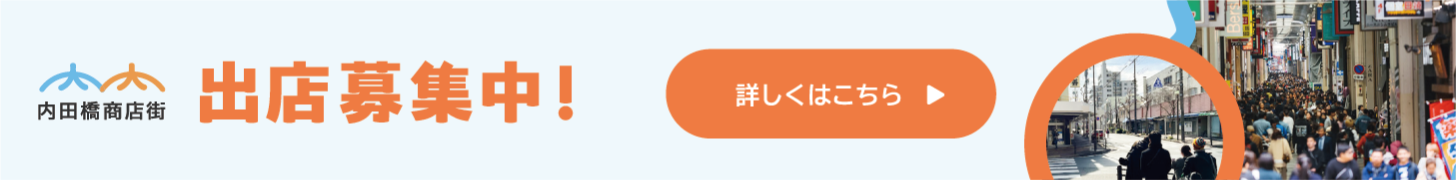
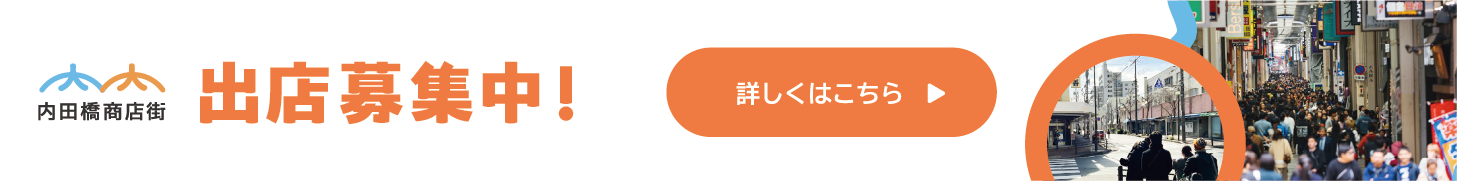
shimizu

diff --git a/css/style.min.css b/css/style.min.css
@@ -1,2 +1,2 @@
-@import"./header.css";@import"./footer.css";html,body{color:#5d4a3a;font-family:"UDPGothic",sans-serif;font-size:16px;letter-spacing:.05em;line-height:1.75;background-color:#fcf9ed;position:relative;width:100%;overflow-x:hidden}h1,h2,h3,h4,h5,h6{color:#5d4a3a;font-weight:400;word-break:break-all}h1{font-size:3rem;font-style:normal;font-weight:700;line-height:3rem}h2{font-size:2rem;line-height:3rem}h3{font-size:1.5rem}h4{font-size:1.25rem}a{text-decoration:none}pre{font-size:inherit}table{max-width:100%}th,td{padding:.5em}ol,ul{padding-left:2em}iframe{max-width:100%}input,textarea,button{font-size:inherit;line-height:""}code{font-size:inherit;word-break:break-all}img{max-width:100%}main{padding-top:10rem}button{background:none;border:none;padding:0;margin:0;font:inherit;color:inherit;cursor:pointer;outline:none}.modal{display:none;position:fixed;z-index:5;left:0;top:0;width:100%;height:100%;overflow:auto;opacity:0;transition:opacity .5s ease-in-out;background-color:#ff7f3e}.modal.show{display:block;opacity:1}.modal__content{padding-top:10.62rem;width:100vw;height:100vh;text-align:center}.modal__close{float:right;font-size:28px;font-weight:bold;cursor:pointer}.modal__link{display:block;color:#fff;font-size:1.25rem;font-style:normal;font-weight:700;line-height:2.5rem;margin-bottom:2.5rem;font-family:"Zen Maru Gothic",sans-serif}.modal__link i{font-size:3rem}.button{background-color:#ff7f3e}.shape--blue{position:absolute;right:5rem;top:5rem;opacity:.4}.shape--orange{position:absolute;right:-7rem;top:-10rem;opacity:.5}@media screen and (min-width: 1000px){.shape--blue{position:absolute;right:13rem;top:5rem;opacity:.4}.shape--orange{position:absolute;right:1rem;top:-10rem;opacity:.5}}.firstView{position:relative}.firstView__content{display:block;margin-bottom:3.69rem;margin-left:auto;margin-right:auto}.firstView__content--subtext{display:none;white-space:nowrap}.firstView__content--image{height:60vh;border-radius:0rem 12rem 1.5rem 0rem;background:url(../images/makiwaradammy.png) #d3d3d3 50%/cover no-repeat;width:75%;margin-bottom:3.8rem}.firstView__content--text{margin-left:auto;margin-right:auto}.firstView__content--text img{width:100%}.firstView__content--text .verticalCatch{display:none}.firstView__content--text .horizontalCatch{display:block;font-size:1.25rem;font-weight:700;margin-bottom:1.5rem;width:80%;margin-left:auto;margin-right:auto}@media screen and (min-width: 1000px){.firstView__content{display:flex;justify-content:space-between}.firstView__content--image{height:800px;border-radius:0rem 18.96875rem 1.5rem 0rem;background:url(../images/makiwaradammy.png) #d3d3d3 50%/cover no-repeat;width:79%;margin-bottom:0}.firstView__content--subtext{color:rgba(255,127,62,.5);font-family:"Zen Maru Gothic",sans-serif;font-weight:500;display:block}.firstView__content--text-group{padding-left:4%;padding-right:7%;margin-top:5rem}.firstView__content--text{width:100%;background-color:none}.firstView__content--text .verticalCatch{display:block;margin-bottom:4rem;width:100%}.firstView__content--text .horizontalCatch{display:none}.firstView__content--text--title{font-size:2.5rem;font-weight:700;margin-bottom:1.5rem}.firstView__content--text--detail{font-size:1.25rem;font-weight:400;line-height:1.5rem}}.sub-head{margin-bottom:1rem}@media screen and (min-width: 1000px){.sub-head{display:flex;align-items:center;margin-bottom:2rem}}.sub-head__text{display:inline-block;white-space:nowrap;font-weight:500;font-family:"Zen Maru Gothic"}.sub-head hr{height:2px;width:100%;border:none;display:inline-block;border-top:dashed 2px #ff7f3e}@media screen and (min-width: 1000px){.sub-head hr{margin-left:1rem}}.main-section{margin-left:auto;margin-right:auto;width:80%;max-width:1280px;padding:3rem 0}@media screen and (min-width: 1000px){.main-section{padding:6rem 0}}.topInfo{position:relative;background-color:#fff;padding:1.5rem;border-radius:1.25rem 0rem 0rem 1.25rem;display:flex;flex-direction:column;-moz-column-gap:5rem;column-gap:5rem;row-gap:1.75rem;color:#5d4a3a;width:83%;margin-left:auto;margin-right:auto;margin-bottom:3.62rem}.topInfo::before{content:"もうすぐ開催";position:absolute;top:-1.4rem;left:2.38rem;width:-webkit-fit-content;width:-moz-fit-content;width:fit-content;background-color:#ff7f3e;border-radius:6.25rem;color:#fff;padding:.25rem 1rem}.topInfo__day{font-family:"BIZ UDPGothic"}.topInfo__day--year{font-size:1.25rem;font-style:normal;font-weight:700;line-height:1.25rem;margin-bottom:.5rem}.topInfo__day--month{font-size:2.5rem;font-style:normal;font-weight:700;line-height:2.5rem}.topInfo__day--month .small{font-size:1.25rem;font-style:normal;font-weight:700;line-height:2.5rem}.topInfo__title{font-family:"BIZ UDPGothic"}.topInfo__title--text{font-size:1.25rem;font-style:normal;font-weight:700;line-height:2.125rem;padding-right:3rem}.topInfo__title--detail{font-size:1rem;font-style:normal;font-weight:400;line-height:1.3rem}@media screen and (min-width: 1000px){.topInfo{position:absolute;bottom:10vh;right:0;padding:1.5rem;border-radius:1.25rem 0rem 0rem 1.25rem;display:flex;flex-direction:row;width:auto}.topInfo::before{content:"もうすぐ開催";position:absolute;top:-1.4rem;left:2.38rem;width:-webkit-fit-content;width:-moz-fit-content;width:fit-content;background-color:#ff7f3e;border-radius:6.25rem;color:#fff;padding:.25rem 1rem}.topInfo *{width:-webkit-fit-content;width:-moz-fit-content;width:fit-content}.topInfo__day{font-family:"BIZ UDPGothic"}.topInfo__day--year{font-size:1.25rem;font-style:normal;font-weight:700;line-height:1.25rem;margin-bottom:.5rem}.topInfo__day--month{font-size:2.5rem;font-style:normal;font-weight:700;line-height:2.5rem}.topInfo__day--month .small{font-size:1.25rem;font-style:normal;font-weight:700;line-height:2.5rem}.topInfo__title{font-family:"BIZ UDPGothic"}.topInfo__title--text{font-size:1.25rem;font-style:normal;font-weight:700;line-height:2.125rem;padding-right:3rem}.topInfo__title--detail{font-size:1rem;font-style:normal;font-weight:400;line-height:1.3rem}}.sub-head{margin-bottom:2.5rem}@media screen and (min-width: 1000px){.sub-head{display:flex;align-items:center;margin-bottom:3rem}}.sub-head__text{display:inline-block;white-space:nowrap;font-weight:500;font-family:"Zen Maru Gothic"}.sub-head hr{height:2px;width:100%;border:none;display:inline-block;border-top:dashed 2px #ff7f3e}@media screen and (min-width: 1000px){.sub-head hr{margin-left:1rem}}.opening{margin-left:auto;margin-right:auto;text-align:center;margin-bottom:3rem;margin-top:3rem}.opening__link{display:inline-block}.opening__link-pc{display:none}.opening__link-sp{display:inline-block;border:rgba(93,74,58,.2) solid 1px;width:80%}@media screen and (min-width: 1000px){.opening__link-pc{display:inline-block;border:rgba(93,74,58,.2) solid 1px;width:50%}.opening__link-sp{display:none}}.opening__parts{border-radius:1.5rem;background-color:#ff7f3e;padding:3.5rem 2rem;margin-left:auto;margin-right:auto;width:83%;margin-bottom:3.62rem}.opening__parts--title{text-align:center;color:#fff;margin-bottom:1.5rem;font-family:"Zen Maru Gothic";font-weight:500;font-size:1.8rem}.opening__parts--text{align-self:stretch;font-family:"BIZ UDPGothic";font-size:1rem;font-style:normal;font-weight:400;line-height:1.8rem;color:#fff;margin-bottom:2.5rem}.opening__parts--text span{display:inline}.opening__parts--button{background-color:#fff;width:-webkit-fit-content;width:-moz-fit-content;width:fit-content;border-radius:6.25rem;padding:1rem 2.5rem;margin-left:auto;margin-right:auto;color:#ff7f3e}.opening__parts--button---text{font-family:"BIZ UDPGothic";font-size:1rem;font-style:normal;font-weight:700;line-height:2rem}.opening__parts--button i{margin-left:.5rem}@media screen and (min-width: 1000px){.opening{margin-top:7rem;margin-bottom:7rem}.opening__parts{padding:3.5rem 0;width:66%;margin-left:auto;margin-right:auto}.opening__parts--title{text-align:center;color:#fff;font-size:2.25rem;font-style:normal;font-weight:500;line-height:2rem;font-family:"Zen Maru Gothic"}.opening__parts--text{width:34rem;text-align:center;font-family:"BIZ UDPGothic";font-size:1rem;font-style:normal;font-weight:700;line-height:1.8rem;margin-left:auto;margin-right:auto}.opening__parts--text span{display:inline}}.section__title{text-align:center;font-size:2rem;font-weight:700;margin-bottom:3.69rem;margin-inline:auto;width:-webkit-fit-content;width:-moz-fit-content;width:fit-content;position:relative;font-family:"Zen Maru Gothic",sans-serif}.section__title::before{display:block;margin-inline:auto;content:"";top:-3rem;left:0%;width:100%;height:10px;z-index:1;margin-top:1rem;font-size:15px;color:#ff7f3e;position:absolute;font-family:"BIZ UDPGothic"}@media screen and (min-width: 1000px){.section__title{text-align:center;font-size:2rem;font-weight:700;margin-bottom:3.69rem;margin-inline:auto;width:-webkit-fit-content;width:-moz-fit-content;width:fit-content;position:relative}.section__title::before{display:block;margin-inline:auto;content:"";top:-3rem;left:0%;width:100%;height:10px;z-index:1;margin-top:1rem;font-size:15px;color:#ff7f3e;position:absolute;font-family:"BIZ UDPGothic"}}.event{background-color:#fff;padding-top:6.5rem;padding-bottom:6.5rem;border-radius:2.5rem 2.5rem 0rem 0rem}.event__title{font-family:"Zen Maru Gothic";font-size:2rem;font-style:normal;font-weight:700;line-height:2.5rem;text-align:center;margin-bottom:3rem}.event__title::before{display:block;margin-inline:auto;content:"Event";width:100%;margin-top:1rem;font-size:15px;color:#ff7f3e}.event__image--box{margin-bottom:2.5rem}.event__image{margin-bottom:.5rem}.event__name{text-align:right;font-size:.9375rem}.event__detail{margin-bottom:2.5rem;width:83%;margin-left:auto;margin-right:auto;color:#5d4a3a}.event__detail--copy{font-family:"Zen Maru Gothic";font-size:2rem;font-style:normal;font-weight:500;line-height:2.4rem;color:#5d4a3a;margin-bottom:1.5rem}.event__detail--text{font-family:"BIZ UDPGothic";font-size:1rem;font-style:normal;font-weight:700;line-height:1.8rem}.event__parts--button{width:-webkit-fit-content;width:-moz-fit-content;width:fit-content;border-radius:6.25rem;padding:1rem 2.5rem;margin-left:auto;margin-right:auto;color:#fff}.event__parts--button---text{font-family:"BIZ UDPGothic";font-size:1rem;font-style:normal;font-weight:700;line-height:2rem}.event__parts--button i{margin-left:.5rem}.event__info{padding:1px;border:1px solid #ff7f3e;width:-webkit-fit-content;width:-moz-fit-content;width:fit-content;margin-left:auto;margin-right:auto}.event__info--title{text-align:center}.event__info--content{text-align:center}@media screen and (min-width: 1000px){.event__content{display:flex;justify-content:space-between;-moz-column-gap:6.5rem;column-gap:6.5rem;align-items:center}.event__image--box{width:50%;border-radius:0rem 1rem;padding:0}.event__image--box img{border-radius:0rem 1rem 1rem 0}.event__name{font-family:"BIZ UDPGothic";font-size:1.25rem;font-style:normal;font-weight:700;line-height:2.5rem}.event__expl{padding-right:6.5rem;text-align:left;width:40%}.event__detail{width:100%}.event__parts--button{margin-left:0}}.storeInfo{background-color:#fff;padding-top:6.5rem;padding-bottom:6.5rem}.storeInfo__title{font-family:"Zen Maru Gothic";font-size:2rem;font-style:normal;font-weight:700;line-height:2.5rem}.storeInfo__title::before{display:block;margin-inline:auto;content:"Shop";width:100%;margin-top:1rem;font-size:15px;color:#ff7f3e}.storeInfo__text{width:83%;margin-left:auto;margin-right:auto;color:#5d4a3a;font-size:1rem;font-style:normal;font-weight:700;line-height:1.8rem;margin-top:2rem;margin-bottom:2rem}.storeInfo ul{list-style:none}@-webkit-keyframes infinity-scroll-left{from{transform:translateX(0)}to{transform:translateX(-100%)}}@keyframes infinity-scroll-left{from{transform:translateX(0)}to{transform:translateX(-100%)}}.storeInfo .scroll-infinity__wrap{display:flex;overflow:hidden}.storeInfo .scroll-infinity__list{display:flex;list-style:none;padding:0}.storeInfo .scroll-infinity__list--left{-webkit-animation:infinity-scroll-left 80s infinite linear .5s both;animation:infinity-scroll-left 80s infinite linear .5s both}.storeInfo .scroll-infinity__item{width:66.6666666667vw;margin-right:1.5rem}.storeInfo .scroll-infinity__item>img{width:100%;border-radius:1.25rem}@-webkit-keyframes infinity-scroll-right{from{transform:translateX(-100%)}to{transform:translateX(0)}}@keyframes infinity-scroll-right{from{transform:translateX(-100%)}to{transform:translateX(0)}}.storeInfo .scroll-infinity__wrap{display:flex;overflow:hidden}.storeInfo .scroll-infinity__list{display:flex;list-style:none;padding:0}.storeInfo .scroll-infinity__list--right{-webkit-animation:infinity-scroll-right 80s infinite linear .5s both;animation:infinity-scroll-right 80s infinite linear .5s both}.storeInfo .scroll-infinity__item{width:66.6666666667vw;margin-right:1.5rem}.storeInfo .scroll-infinity__item>img{width:100%;border-radius:1.25rem}@media screen and (min-width: 1000px){.storeInfo .imageScroll{margin-bottom:3.75rem}.storeInfo__text{text-align:center;font-family:"BIZ UDPGothic";font-size:1rem;font-style:normal;font-weight:700;line-height:1.8rem;margin-bottom:3.75rem}.storeInfo__text span{display:block}.storeInfo .button{margin-left:auto;margin-right:auto}.storeInfo .scroll-infinity__item{width:33.3333333333vw;margin-right:4rem;max-width:22rem}.storeInfo .scroll-infinity__item>img{width:100%;border-radius:1.25rem}}.bg-main{background-color:#fcf9ed}.latestInfo{padding-top:6.5rem;padding-bottom:6.5rem;font-family:"Zen Maru Gothic";text-align:center}.latestInfo__title{font-family:"Zen Maru Gothic";font-size:2rem;font-style:normal;font-weight:700;line-height:2.5rem;text-align:center;margin-bottom:3rem}.latestInfo__title::before{display:block;margin-inline:auto;content:"News";width:100%;font-size:15px;color:#ff7f3e}.latestInfo__instagram{display:flex;justify-content:space-between;margin-bottom:3.69rem;padding-left:0px !important;width:83%;margin-left:auto;margin-right:auto;list-style:none}.latestInfo__instagram li{width:30%;aspect-ratio:1/1;background-color:#212121;border-radius:.5rem}.latestInfo__instagram--post{width:7rem}.latestInfo__instagram--post img{width:100%;height:auto;-o-object-fit:cover;object-fit:cover;aspect-ratio:1/1}.latestInfo__text{font-family:"BIZ UDPGothic";width:83%;margin-left:auto;margin-right:auto;color:#5d4a3a;font-size:1rem;font-style:normal;font-weight:700;line-height:1.8rem;margin-bottom:2.5rem;text-align:center}.latestInfo__parts--button{width:-webkit-fit-content;width:-moz-fit-content;width:fit-content;border-radius:6.25rem;padding:1rem 2.5rem;margin-left:auto;margin-right:auto;color:#fff}.latestInfo__parts--button---text{font-family:"BIZ UDPGothic";font-size:1rem;font-style:normal;font-weight:700;line-height:2rem}.latestInfo__parts--button i{margin-left:.5rem}@media screen and (min-width: 1000px){.latestInfo{margin-bottom:6rem}.latestInfo__instagram{margin-bottom:3.75rem;width:58.6885245902%;margin-left:auto;margin-right:auto;max-width:716px}.latestInfo__instagram--post{width:13rem}}.about{padding-bottom:6.5rem}.about__imagebox{width:88%;margin-bottom:7.37rem}.about__imagebox img{border-radius:0rem 1.5rem 1.5rem 0rem}.about__title{font-family:"Zen Maru Gothic";font-size:2rem;font-style:normal;font-weight:700;line-height:2.5rem;text-align:center;margin-bottom:3rem}.about__title::before{display:block;margin-inline:auto;content:"About";width:100%;font-size:15px;color:#ff7f3e}.about__text{font-family:"BIZ UDPGothic";font-size:1rem;font-style:normal;font-weight:700;line-height:3.75rem;color:#5d4a3a;margin-bottom:2.5rem;width:83%;margin-left:auto;margin-right:auto;text-align:center}.about__parts--button{width:-webkit-fit-content;width:-moz-fit-content;width:fit-content;border-radius:6.25rem;padding:1rem 2.5rem;margin-left:auto;margin-right:auto;color:#fff;margin-bottom:3.12rem}.about__parts--button---text{font-family:"BIZ UDPGothic";font-size:1rem;font-style:normal;font-weight:700;line-height:2rem}.about__parts--button i{margin-left:.5rem}.about .image__sub01,.about .image__sub02{border-radius:.5rem}.about .image__sub01{border-radius:.5rem 0 0 .5rem}.about .image__area{display:flex;margin-bottom:3.69rem;flex-direction:row-reverse;-moz-column-gap:5%;column-gap:5%;align-items:flex-start;margin-bottom:6.5rem}.about .image__area img:nth-child(1){width:53%;aspect-ratio:3/2;-o-object-fit:contain;object-fit:contain}.about .image__area img:nth-child(2){margin-top:20%;width:30%;aspect-ratio:1/1.124;-o-object-fit:cover;object-fit:cover}.about .image__area :nth-child(1){border-radius:1.5rem}.about__opening{width:83%;background-color:#fff;padding:3rem 2rem;margin-left:auto;margin-right:auto;border-radius:1.5rem}.about__opening__title{text-align:center;font-family:"Zen Maru Gothic";font-size:2rem;font-style:normal;font-weight:700;line-height:2.5rem;margin-inline:auto;width:-webkit-fit-content;width:-moz-fit-content;width:fit-content;position:relative;color:#5d4a3a}.about__opening__title::before{content:"Opening a store";display:block;content:"About";margin-inline:auto;line-height:2.5rem;width:100%;font-size:15px;color:#ff7f3e}.about__opening__text{font-family:"BIZ UDPGothic";font-size:1rem;font-style:normal;font-weight:700;line-height:1.8rem;color:#5d4a3a;margin:2.5rem auto;text-align:center}.about__opening__parts--button{background-color:#ff7f3e;width:-webkit-fit-content;width:-moz-fit-content;width:fit-content;border-radius:6.25rem;padding:1rem 2.5rem;margin-left:auto;margin-right:auto;color:#fff}.about__opening__parts--button---text{font-family:"BIZ UDPGothic";font-size:1rem;font-style:normal;font-weight:700;line-height:2rem}.about__opening__parts--button i{margin-left:.5rem}@media screen and (min-width: 1000px){.about__imagebox{margin-bottom:6.5rem;width:70%}.about__imagebox img{border-radius:0;aspect-ratio:2/1;-o-object-fit:cover;object-fit:cover}.about__imagebox .image__area{display:flex;margin-bottom:3.69rem;flex-direction:row-reverse;-moz-column-gap:4.5rem;column-gap:4.5rem;align-items:flex-start;margin-bottom:12.75rem}.about__imagebox .image__area img:nth-child(1){width:53%;aspect-ratio:3/2;-o-object-fit:contain;object-fit:contain}.about__imagebox .image__area img:nth-child(2){margin-top:20%;width:30%;aspect-ratio:1/1.124;-o-object-fit:cover;object-fit:cover}.about__imagebox .image__area :nth-child(1){border-radius:1.5rem}}.access{padding-top:6.5rem;padding-bottom:3.5rem;background-color:#fff}.access__title{font-family:"Zen Maru Gothic";font-size:2rem;font-style:normal;font-weight:700;line-height:2.5rem;text-align:center;margin-bottom:3rem}.access__title::before{display:block;margin-inline:auto;content:"Shop";width:100%;font-size:15px;color:#ff7f3e}.access__map{width:85%;margin-left:auto;margin-right:auto;aspect-ratio:1/1;border:.2px solid #4e4e4e;border-radius:.5rem;margin-bottom:2.5rem}.access__map iframe{width:100%;height:100%;border-radius:.5rem;padding:auto}.access__link{display:block;color:#5d4a3a;width:85%;margin-left:auto;margin-right:auto;font-family:"BIZ UDPGothic";font-size:1rem;font-style:normal;font-weight:700;line-height:1.8rem;-webkit-text-decoration-line:underline;text-decoration-line:underline;margin-bottom:2.5rem}.access__route--guide{display:flex;margin-bottom:2.5rem;gap:1.5rem;width:85%;margin-left:auto;margin-right:auto}.access__route--guide:nth-child(2){margin-bottom:0;align-items:center}.access__route--guide__title{width:-webkit-fit-content;width:-moz-fit-content;width:fit-content;font-family:"BIZ UDPGothic";font-size:1rem;font-style:normal;font-weight:700;line-height:1.8rem;border-radius:1.5rem;padding:.25rem 1rem;color:#ff7f3e;height:-webkit-fit-content;height:-moz-fit-content;height:fit-content;text-align:center}.access__route--guide .dlwrap{width:73%}.access__route--guide__text{font-family:"BIZ UDPGothic";font-size:1rem;font-style:normal;font-weight:700;line-height:1.8rem;color:#5d4a3a}.access__route--guide__text.caution{color:#ff7f3e}@media screen and (min-width: 1000px){.access__wrapper{display:flex;width:87%;margin-left:auto;margin-right:auto;justify-content:space-between}.access__map{width:47%;aspect-ratio:3/2}.access__info{width:47%}.access__link{width:100%}.access__route--guide{width:100%}}.scroll-infinity{margin-bottom:0}@media screen and (min-width: 1000px){.scroll-infinity{margin-bottom:1rem}}
+@import"./header.css";@import"./footer.css";html,body{color:#5d4a3a;font-family:"UDPGothic",sans-serif;font-size:16px;letter-spacing:.05em;line-height:1.75;background-color:#fcf9ed;position:relative;width:100%;overflow-x:hidden}h1,h2,h3,h4,h5,h6{color:#5d4a3a;font-weight:400;word-break:break-all}h1{font-size:3rem;font-style:normal;font-weight:700;line-height:3rem}h2{font-size:2rem;line-height:3rem}h3{font-size:1.5rem}h4{font-size:1.25rem}a{text-decoration:none}pre{font-size:inherit}table{max-width:100%}th,td{padding:.5em}ol,ul{padding-left:2em}iframe{max-width:100%}input,textarea,button{font-size:inherit;line-height:""}code{font-size:inherit;word-break:break-all}img{max-width:100%}main{padding-top:10rem}button{background:none;border:none;padding:0;margin:0;font:inherit;color:inherit;cursor:pointer;outline:none}.modal{display:none;position:fixed;z-index:5;left:0;top:0;width:100%;height:100%;overflow:auto;opacity:0;transition:opacity .5s ease-in-out;background-color:#ff7f3e}.modal.show{display:block;opacity:1}.modal__content{padding-top:10.62rem;width:100vw;height:100vh;text-align:center}.modal__close{float:right;font-size:28px;font-weight:bold;cursor:pointer}.modal__link{display:block;color:#fff;font-size:1.25rem;font-style:normal;font-weight:700;line-height:2.5rem;margin-bottom:2.5rem;font-family:"Zen Maru Gothic",sans-serif}.modal__link i{font-size:3rem}.button{background-color:#ff7f3e}.shape--blue{position:absolute;right:5rem;top:5rem;opacity:.4}.shape--orange{position:absolute;right:-7rem;top:-10rem;opacity:.5}@media screen and (min-width: 1000px){.shape--blue{position:absolute;right:13rem;top:5rem;opacity:.4}.shape--orange{position:absolute;right:1rem;top:-10rem;opacity:.5}}.firstView{position:relative}.firstView__content{display:block;margin-bottom:3.69rem;margin-left:auto;margin-right:auto}.firstView__content--subtext{display:none;white-space:nowrap}.firstView__content--image{height:60vh;border-radius:0rem 12rem 1.5rem 0rem;background:url(../images/makiwaradammy.png) #d3d3d3 50%/cover no-repeat;width:75%;margin-bottom:3.8rem}.firstView__content--text{margin-left:auto;margin-right:auto}.firstView__content--text img{width:100%}.firstView__content--text .verticalCatch{display:none}.firstView__content--text .horizontalCatch{display:block;font-size:1.25rem;font-weight:700;margin-bottom:1.5rem;width:80%;margin-left:auto;margin-right:auto}@media screen and (min-width: 1000px){.firstView__content{display:flex;justify-content:space-between}.firstView__content--image{height:800px;border-radius:0rem 18.96875rem 1.5rem 0rem;background:url(../images/makiwaradammy.png) #d3d3d3 50%/cover no-repeat;width:79%;margin-bottom:0}.firstView__content--subtext{color:rgba(255,127,62,.5);font-family:"Zen Maru Gothic",sans-serif;font-weight:500;display:block}.firstView__content--text-group{padding-left:4%;padding-right:7%;margin-top:5rem}.firstView__content--text{width:100%;background-color:none}.firstView__content--text .verticalCatch{display:block;margin-bottom:4rem;width:100%}.firstView__content--text .horizontalCatch{display:none}.firstView__content--text--title{font-size:2.5rem;font-weight:700;margin-bottom:1.5rem}.firstView__content--text--detail{font-size:1.25rem;font-weight:400;line-height:1.5rem}}.sub-head{margin-bottom:1rem}@media screen and (min-width: 1000px){.sub-head{display:flex;align-items:center;margin-bottom:2rem}}.sub-head__text{display:inline-block;white-space:nowrap;font-weight:500;font-family:"Zen Maru Gothic"}.sub-head hr{height:2px;width:100%;border:none;display:inline-block;border-top:dashed 2px #ff7f3e}@media screen and (min-width: 1000px){.sub-head hr{margin-left:1rem}}.main-section{margin-left:auto;margin-right:auto;width:80%;max-width:1280px;padding:3rem 0}@media screen and (min-width: 1000px){.main-section{padding:6rem 0}}.topInfo{position:relative;background-color:#fff;padding:1.5rem;border-radius:1.25rem 0rem 0rem 1.25rem;display:flex;flex-direction:column;-moz-column-gap:5rem;column-gap:5rem;row-gap:1.75rem;color:#5d4a3a;width:83%;margin-left:auto;margin-right:auto;margin-bottom:3.62rem}.topInfo::before{content:"もうすぐ開催";position:absolute;top:-1.4rem;left:2.38rem;width:-webkit-fit-content;width:-moz-fit-content;width:fit-content;background-color:#ff7f3e;border-radius:6.25rem;color:#fff;padding:.25rem 1rem}.topInfo__day{font-family:"BIZ UDPGothic"}.topInfo__day--year{font-size:1.25rem;font-style:normal;font-weight:700;line-height:1.25rem;margin-bottom:.5rem}.topInfo__day--month{font-size:2.5rem;font-style:normal;font-weight:700;line-height:2.5rem}.topInfo__day--month .small{font-size:1.25rem;font-style:normal;font-weight:700;line-height:2.5rem}.topInfo__title{font-family:"BIZ UDPGothic"}.topInfo__title--text{font-size:1.25rem;font-style:normal;font-weight:700;line-height:2.125rem;padding-right:3rem}.topInfo__title--detail{font-size:1rem;font-style:normal;font-weight:400;line-height:1.3rem}@media screen and (min-width: 1000px){.topInfo{position:absolute;bottom:10vh;right:0;padding:1.5rem;border-radius:1.25rem 0rem 0rem 1.25rem;display:flex;flex-direction:row;width:auto}.topInfo::before{content:"もうすぐ開催";position:absolute;top:-1.4rem;left:2.38rem;width:-webkit-fit-content;width:-moz-fit-content;width:fit-content;background-color:#ff7f3e;border-radius:6.25rem;color:#fff;padding:.25rem 1rem}.topInfo *{width:-webkit-fit-content;width:-moz-fit-content;width:fit-content}.topInfo__day{font-family:"BIZ UDPGothic"}.topInfo__day--year{font-size:1.25rem;font-style:normal;font-weight:700;line-height:1.25rem;margin-bottom:.5rem}.topInfo__day--month{font-size:2.5rem;font-style:normal;font-weight:700;line-height:2.5rem}.topInfo__day--month .small{font-size:1.25rem;font-style:normal;font-weight:700;line-height:2.5rem}.topInfo__title{font-family:"BIZ UDPGothic"}.topInfo__title--text{font-size:1.25rem;font-style:normal;font-weight:700;line-height:2.125rem;padding-right:3rem}.topInfo__title--detail{font-size:1rem;font-style:normal;font-weight:400;line-height:1.3rem}}.sub-head{margin-bottom:2.5rem}@media screen and (min-width: 1000px){.sub-head{display:flex;align-items:center;margin-bottom:3rem}}.sub-head__text{display:inline-block;white-space:nowrap;font-weight:500;font-family:"Zen Maru Gothic"}.sub-head hr{height:2px;width:100%;border:none;display:inline-block;border-top:dashed 2px #ff7f3e}@media screen and (min-width: 1000px){.sub-head hr{margin-left:1rem}}.opening{margin-left:auto;margin-right:auto;text-align:center;margin-bottom:3rem;margin-top:3rem}.opening__banner{width:100%}.opening__link{display:inline-block}.opening__link-pc{display:none}.opening__link-sp{display:inline-block;border:rgba(93,74,58,.2) solid 1px;width:80%}@media screen and (min-width: 1000px){.opening__link-pc{display:inline-block;border:rgba(93,74,58,.2) solid 1px;width:50%}.opening__link-sp{display:none}}.opening__parts{border-radius:1.5rem;background-color:#ff7f3e;padding:3.5rem 2rem;margin-left:auto;margin-right:auto;width:83%;margin-bottom:3.62rem}.opening__parts--title{text-align:center;color:#fff;margin-bottom:1.5rem;font-family:"Zen Maru Gothic";font-weight:500;font-size:1.8rem}.opening__parts--text{align-self:stretch;font-family:"BIZ UDPGothic";font-size:1rem;font-style:normal;font-weight:400;line-height:1.8rem;color:#fff;margin-bottom:2.5rem}.opening__parts--text span{display:inline}.opening__parts--button{background-color:#fff;width:-webkit-fit-content;width:-moz-fit-content;width:fit-content;border-radius:6.25rem;padding:1rem 2.5rem;margin-left:auto;margin-right:auto;color:#ff7f3e}.opening__parts--button---text{font-family:"BIZ UDPGothic";font-size:1rem;font-style:normal;font-weight:700;line-height:2rem}.opening__parts--button i{margin-left:.5rem}@media screen and (min-width: 1000px){.opening{margin-top:7rem;margin-bottom:7rem}.opening__parts{padding:3.5rem 0;width:66%;margin-left:auto;margin-right:auto}.opening__parts--title{text-align:center;color:#fff;font-size:2.25rem;font-style:normal;font-weight:500;line-height:2rem;font-family:"Zen Maru Gothic"}.opening__parts--text{width:34rem;text-align:center;font-family:"BIZ UDPGothic";font-size:1rem;font-style:normal;font-weight:700;line-height:1.8rem;margin-left:auto;margin-right:auto}.opening__parts--text span{display:inline}}.section__title{text-align:center;font-size:2rem;font-weight:700;margin-bottom:3.69rem;margin-inline:auto;width:-webkit-fit-content;width:-moz-fit-content;width:fit-content;position:relative;font-family:"Zen Maru Gothic",sans-serif}.section__title::before{display:block;margin-inline:auto;content:"";top:-3rem;left:0%;width:100%;height:10px;z-index:1;margin-top:1rem;font-size:15px;color:#ff7f3e;position:absolute;font-family:"BIZ UDPGothic"}@media screen and (min-width: 1000px){.section__title{text-align:center;font-size:2rem;font-weight:700;margin-bottom:3.69rem;margin-inline:auto;width:-webkit-fit-content;width:-moz-fit-content;width:fit-content;position:relative}.section__title::before{display:block;margin-inline:auto;content:"";top:-3rem;left:0%;width:100%;height:10px;z-index:1;margin-top:1rem;font-size:15px;color:#ff7f3e;position:absolute;font-family:"BIZ UDPGothic"}}.event{background-color:#fff;padding-top:6.5rem;padding-bottom:6.5rem;border-radius:2.5rem 2.5rem 0rem 0rem}.event__title{font-family:"Zen Maru Gothic";font-size:2rem;font-style:normal;font-weight:700;line-height:2.5rem;text-align:center;margin-bottom:3rem}.event__title::before{display:block;margin-inline:auto;content:"Event";width:100%;margin-top:1rem;font-size:15px;color:#ff7f3e}.event__image--box{margin-bottom:2.5rem}.event__image{margin-bottom:.5rem}.event__name{text-align:right;font-size:.9375rem}.event__detail{margin-bottom:2.5rem;width:83%;margin-left:auto;margin-right:auto;color:#5d4a3a}.event__detail--copy{font-family:"Zen Maru Gothic";font-size:2rem;font-style:normal;font-weight:500;line-height:2.4rem;color:#5d4a3a;margin-bottom:1.5rem}.event__detail--text{font-family:"BIZ UDPGothic";font-size:1rem;font-style:normal;font-weight:700;line-height:1.8rem}.event__parts--button{width:-webkit-fit-content;width:-moz-fit-content;width:fit-content;border-radius:6.25rem;padding:1rem 2.5rem;margin-left:auto;margin-right:auto;color:#fff}.event__parts--button---text{font-family:"BIZ UDPGothic";font-size:1rem;font-style:normal;font-weight:700;line-height:2rem}.event__parts--button i{margin-left:.5rem}.event__info{padding:1px;border:1px solid #ff7f3e;width:-webkit-fit-content;width:-moz-fit-content;width:fit-content;margin-left:auto;margin-right:auto}.event__info--title{text-align:center}.event__info--content{text-align:center}@media screen and (min-width: 1000px){.event__content{display:flex;justify-content:space-between;-moz-column-gap:6.5rem;column-gap:6.5rem;align-items:center}.event__image--box{width:50%;border-radius:0rem 1rem;padding:0}.event__image--box img{border-radius:0rem 1rem 1rem 0}.event__name{font-family:"BIZ UDPGothic";font-size:1.25rem;font-style:normal;font-weight:700;line-height:2.5rem}.event__expl{padding-right:6.5rem;text-align:left;width:40%}.event__detail{width:100%}.event__parts--button{margin-left:0}}.storeInfo{background-color:#fff;padding-top:6.5rem;padding-bottom:6.5rem}.storeInfo__title{font-family:"Zen Maru Gothic";font-size:2rem;font-style:normal;font-weight:700;line-height:2.5rem}.storeInfo__title::before{display:block;margin-inline:auto;content:"Shop";width:100%;margin-top:1rem;font-size:15px;color:#ff7f3e}.storeInfo__text{width:83%;margin-left:auto;margin-right:auto;color:#5d4a3a;font-size:1rem;font-style:normal;font-weight:700;line-height:1.8rem;margin-top:2rem;margin-bottom:2rem}.storeInfo ul{list-style:none}@-webkit-keyframes infinity-scroll-left{from{transform:translateX(0)}to{transform:translateX(-100%)}}@keyframes infinity-scroll-left{from{transform:translateX(0)}to{transform:translateX(-100%)}}.storeInfo .scroll-infinity__wrap{display:flex;overflow:hidden}.storeInfo .scroll-infinity__list{display:flex;list-style:none;padding:0}.storeInfo .scroll-infinity__list--left{-webkit-animation:infinity-scroll-left 80s infinite linear .5s both;animation:infinity-scroll-left 80s infinite linear .5s both}.storeInfo .scroll-infinity__item{width:66.6666666667vw;margin-right:1.5rem}.storeInfo .scroll-infinity__item>img{width:100%;border-radius:1.25rem}@-webkit-keyframes infinity-scroll-right{from{transform:translateX(-100%)}to{transform:translateX(0)}}@keyframes infinity-scroll-right{from{transform:translateX(-100%)}to{transform:translateX(0)}}.storeInfo .scroll-infinity__wrap{display:flex;overflow:hidden}.storeInfo .scroll-infinity__list{display:flex;list-style:none;padding:0}.storeInfo .scroll-infinity__list--right{-webkit-animation:infinity-scroll-right 80s infinite linear .5s both;animation:infinity-scroll-right 80s infinite linear .5s both}.storeInfo .scroll-infinity__item{width:66.6666666667vw;margin-right:1.5rem}.storeInfo .scroll-infinity__item>img{width:100%;border-radius:1.25rem}@media screen and (min-width: 1000px){.storeInfo .imageScroll{margin-bottom:3.75rem}.storeInfo__text{text-align:center;font-family:"BIZ UDPGothic";font-size:1rem;font-style:normal;font-weight:700;line-height:1.8rem;margin-bottom:3.75rem}.storeInfo__text span{display:block}.storeInfo .button{margin-left:auto;margin-right:auto}.storeInfo .scroll-infinity__item{width:33.3333333333vw;margin-right:4rem;max-width:22rem}.storeInfo .scroll-infinity__item>img{width:100%;border-radius:1.25rem}}.bg-main{background-color:#fcf9ed}.latestInfo{padding-top:6.5rem;padding-bottom:6.5rem;font-family:"Zen Maru Gothic";text-align:center}.latestInfo__title{font-family:"Zen Maru Gothic";font-size:2rem;font-style:normal;font-weight:700;line-height:2.5rem;text-align:center;margin-bottom:3rem}.latestInfo__title::before{display:block;margin-inline:auto;content:"News";width:100%;font-size:15px;color:#ff7f3e}.latestInfo__instagram{display:flex;justify-content:space-between;margin-bottom:3.69rem;padding-left:0px !important;width:83%;margin-left:auto;margin-right:auto;list-style:none}.latestInfo__instagram li{width:30%;aspect-ratio:1/1;background-color:#212121;border-radius:.5rem}.latestInfo__instagram--post{width:7rem}.latestInfo__instagram--post img{width:100%;height:auto;-o-object-fit:cover;object-fit:cover;aspect-ratio:1/1}.latestInfo__text{font-family:"BIZ UDPGothic";width:83%;margin-left:auto;margin-right:auto;color:#5d4a3a;font-size:1rem;font-style:normal;font-weight:700;line-height:1.8rem;margin-bottom:2.5rem;text-align:center}.latestInfo__parts--button{width:-webkit-fit-content;width:-moz-fit-content;width:fit-content;border-radius:6.25rem;padding:1rem 2.5rem;margin-left:auto;margin-right:auto;color:#fff}.latestInfo__parts--button---text{font-family:"BIZ UDPGothic";font-size:1rem;font-style:normal;font-weight:700;line-height:2rem}.latestInfo__parts--button i{margin-left:.5rem}@media screen and (min-width: 1000px){.latestInfo{margin-bottom:6rem}.latestInfo__instagram{margin-bottom:3.75rem;width:58.6885245902%;margin-left:auto;margin-right:auto;max-width:716px}.latestInfo__instagram--post{width:13rem}}.about{padding-bottom:6.5rem}.about__imagebox{width:88%;margin-bottom:7.37rem}.about__imagebox img{border-radius:0rem 1.5rem 1.5rem 0rem}.about__title{font-family:"Zen Maru Gothic";font-size:2rem;font-style:normal;font-weight:700;line-height:2.5rem;text-align:center;margin-bottom:3rem}.about__title::before{display:block;margin-inline:auto;content:"About";width:100%;font-size:15px;color:#ff7f3e}.about__text{font-family:"BIZ UDPGothic";font-size:1rem;font-style:normal;font-weight:700;line-height:3.75rem;color:#5d4a3a;margin-bottom:2.5rem;width:83%;margin-left:auto;margin-right:auto;text-align:center}.about__parts--button{width:-webkit-fit-content;width:-moz-fit-content;width:fit-content;border-radius:6.25rem;padding:1rem 2.5rem;margin-left:auto;margin-right:auto;color:#fff;margin-bottom:3.12rem}.about__parts--button---text{font-family:"BIZ UDPGothic";font-size:1rem;font-style:normal;font-weight:700;line-height:2rem}.about__parts--button i{margin-left:.5rem}.about .image__sub01,.about .image__sub02{border-radius:.5rem}.about .image__sub01{border-radius:.5rem 0 0 .5rem}.about .image__area{display:flex;margin-bottom:3.69rem;flex-direction:row-reverse;-moz-column-gap:5%;column-gap:5%;align-items:flex-start;margin-bottom:6.5rem}.about .image__area img:nth-child(1){width:53%;aspect-ratio:3/2;-o-object-fit:contain;object-fit:contain}.about .image__area img:nth-child(2){margin-top:20%;width:30%;aspect-ratio:1/1.124;-o-object-fit:cover;object-fit:cover}.about .image__area :nth-child(1){border-radius:1.5rem}.about__opening{width:83%;background-color:#fff;padding:3rem 2rem;margin-left:auto;margin-right:auto;border-radius:1.5rem}.about__opening__title{text-align:center;font-family:"Zen Maru Gothic";font-size:2rem;font-style:normal;font-weight:700;line-height:2.5rem;margin-inline:auto;width:-webkit-fit-content;width:-moz-fit-content;width:fit-content;position:relative;color:#5d4a3a}.about__opening__title::before{content:"Opening a store";display:block;content:"About";margin-inline:auto;line-height:2.5rem;width:100%;font-size:15px;color:#ff7f3e}.about__opening__text{font-family:"BIZ UDPGothic";font-size:1rem;font-style:normal;font-weight:700;line-height:1.8rem;color:#5d4a3a;margin:2.5rem auto;text-align:center}.about__opening__parts--button{background-color:#ff7f3e;width:-webkit-fit-content;width:-moz-fit-content;width:fit-content;border-radius:6.25rem;padding:1rem 2.5rem;margin-left:auto;margin-right:auto;color:#fff}.about__opening__parts--button---text{font-family:"BIZ UDPGothic";font-size:1rem;font-style:normal;font-weight:700;line-height:2rem}.about__opening__parts--button i{margin-left:.5rem}@media screen and (min-width: 1000px){.about__imagebox{margin-bottom:6.5rem;width:70%}.about__imagebox img{border-radius:0;aspect-ratio:2/1;-o-object-fit:cover;object-fit:cover}.about__imagebox .image__area{display:flex;margin-bottom:3.69rem;flex-direction:row-reverse;-moz-column-gap:4.5rem;column-gap:4.5rem;align-items:flex-start;margin-bottom:12.75rem}.about__imagebox .image__area img:nth-child(1){width:53%;aspect-ratio:3/2;-o-object-fit:contain;object-fit:contain}.about__imagebox .image__area img:nth-child(2){margin-top:20%;width:30%;aspect-ratio:1/1.124;-o-object-fit:cover;object-fit:cover}.about__imagebox .image__area :nth-child(1){border-radius:1.5rem}}.access{padding-top:6.5rem;padding-bottom:3.5rem;background-color:#fff}.access__title{font-family:"Zen Maru Gothic";font-size:2rem;font-style:normal;font-weight:700;line-height:2.5rem;text-align:center;margin-bottom:3rem}.access__title::before{display:block;margin-inline:auto;content:"Shop";width:100%;font-size:15px;color:#ff7f3e}.access__map{width:85%;margin-left:auto;margin-right:auto;aspect-ratio:1/1;border:.2px solid #4e4e4e;border-radius:.5rem;margin-bottom:2.5rem}.access__map iframe{width:100%;height:100%;border-radius:.5rem;padding:auto}.access__link{display:block;color:#5d4a3a;width:85%;margin-left:auto;margin-right:auto;font-family:"BIZ UDPGothic";font-size:1rem;font-style:normal;font-weight:700;line-height:1.8rem;-webkit-text-decoration-line:underline;text-decoration-line:underline;margin-bottom:2.5rem}.access__route--guide{display:flex;margin-bottom:2.5rem;gap:1.5rem;width:85%;margin-left:auto;margin-right:auto}.access__route--guide:nth-child(2){margin-bottom:0;align-items:center}.access__route--guide__title{width:-webkit-fit-content;width:-moz-fit-content;width:fit-content;font-family:"BIZ UDPGothic";font-size:1rem;font-style:normal;font-weight:700;line-height:1.8rem;border-radius:1.5rem;padding:.25rem 1rem;color:#ff7f3e;height:-webkit-fit-content;height:-moz-fit-content;height:fit-content;text-align:center}.access__route--guide .dlwrap{width:73%}.access__route--guide__text{font-family:"BIZ UDPGothic";font-size:1rem;font-style:normal;font-weight:700;line-height:1.8rem;color:#5d4a3a}.access__route--guide__text.caution{color:#ff7f3e}@media screen and (min-width: 1000px){.access__wrapper{display:flex;width:87%;margin-left:auto;margin-right:auto;justify-content:space-between}.access__map{width:47%;aspect-ratio:3/2}.access__info{width:47%}.access__link{width:100%}.access__route--guide{width:100%}}.scroll-infinity{margin-bottom:0}@media screen and (min-width: 1000px){.scroll-infinity{margin-bottom:1rem}}
 /*# sourceMappingURL=style.min.css.map */

diff --git a/css/header.min.css b/css/header.min.css
@@ -1,2 +1,2 @@
-a{text-decoration:none}.header{background-color:#fcf9ed}.header__inner{margin-left:auto;margin-right:auto;padding-top:1.56rem;display:flex;justify-content:center;width:95%}.header__top{display:flex;margin-left:auto;margin-right:auto;padding:1.5rem 2.5rem;background-color:#fff;border-radius:5rem;align-items:center;justify-content:space-between;box-shadow:0px 0px 20px 0px rgba(55,23,0,.05);position:fixed;z-index:10;width:93%}.header__top--image{width:35%;min-width:70px;height:auto;border-radius:50%;margin-right:1.56rem}.header__top--image img{width:100%}.header__gnav{display:none;font-family:"Zen Maru Gothic",sans-serif}.header__gnav--link{display:block;color:#212121;font-weight:bold;font-size:1rem;color:#76604e}.header__gnav--link:hover{color:#ff7f3e;transition:.3s}.header__menu{z-index:100;display:none;background-color:#ff7f3e;width:100%;height:100vh;z-index:50}.header__menu.open{display:block}.header__menuButton--image{min-width:50px}@media screen and (min-width: 1100px){.header{background-color:#fcf9ed}.header__inner{margin-left:auto;margin-right:auto;padding-top:1.56rem;display:flex;justify-content:center}.header__top{display:flex;margin-left:auto;margin-right:auto;padding:1.5rem 2.5rem;background-color:#fff;border-radius:5rem;align-items:center;justify-content:space-between}.header__top--image{width:10%;max-width:7rem;height:auto;border-radius:50%;margin-right:1.56rem}.header__top--image img{width:100%}.header__gnav{display:flex;gap:2.5rem;width:100%;align-items:center;justify-content:flex-end}.header__gnav--link{display:block;color:#212121;font-weight:700;font-size:1rem;color:#76604e}.header__gnav--link:hover{color:#ff7f3e;transition:.3s}.header__gnav--link .fa-instagram{color:#fff;background-color:#ff7f3e;border-radius:25px;padding:.69rem}.header__menuButton{display:none}.header #menuButton{display:none}}
+a{text-decoration:none}.header{background-color:#fcf9ed}.header__inner{margin-left:auto;margin-right:auto;padding-top:1.56rem;display:flex;justify-content:center;width:95%}.header__top{display:flex;margin-left:auto;margin-right:auto;padding:1.5rem 2.5rem;background-color:#fff;border-radius:5rem;align-items:center;justify-content:space-between;box-shadow:0px 0px 20px 0px rgba(55,23,0,.05);position:fixed;z-index:10;width:93%}.header__top--image{width:35%;min-width:70px;height:auto;border-radius:50%;margin-right:1.56rem}@media screen and (min-width: 1100px){.header__top--image img{width:35%}}.header__gnav{display:none;font-family:"Zen Maru Gothic",sans-serif}.header__gnav--link{display:block;color:#212121;font-weight:bold;font-size:1rem;color:#76604e}.header__gnav--link:hover{color:#ff7f3e;transition:.3s}.header__menu{z-index:100;display:none;background-color:#ff7f3e;width:100%;height:100vh;z-index:50}.header__menu.open{display:block}.header__menuButton--image{min-width:50px}@media screen and (min-width: 1100px){.header{background-color:#fcf9ed}.header__inner{margin-left:auto;margin-right:auto;padding-top:1.56rem;display:flex;justify-content:center}.header__top{display:flex;margin-left:auto;margin-right:auto;padding:1.5rem 2.5rem;background-color:#fff;border-radius:5rem;align-items:center;justify-content:space-between}.header__top--image{width:10%;max-width:7rem;height:auto;border-radius:50%;margin-right:1.56rem}.header__top--image img{width:100%}.header__gnav{display:flex;gap:2.5rem;width:100%;align-items:center;justify-content:flex-end}.header__gnav--link{display:block;color:#212121;font-weight:700;font-size:1rem;color:#76604e}.header__gnav--link:hover{color:#ff7f3e;transition:.3s}.header__gnav--link .fa-instagram{color:#fff;background-color:#ff7f3e;border-radius:25px;padding:.69rem}.header__menuButton{display:none}.header #menuButton{display:none}}
 /*# sourceMappingURL=header.min.css.map */

diff --git a/index.html b/index.html
@@ -113,7 +113,7 @@
         <img src="./images/banner_pc@2x.png" alt="" class="opening__banner">
       </a>
       <a href="#" class="opening__link-sp">
-        <img src="./images/banner_sp.png" alt="" class="opening__banner">
+        <img src="./images/banner_sp@2x.png" alt="" class="opening__banner">
       </a>
 
     </section>

diff --git a/css/header.css b/css/header.css
@@ -36,8 +36,10 @@ a {
   border-radius: 50%;
   margin-right: 1.56rem;
 }
-.header__top--image img {
-  width: 100%;
+@media screen and (min-width: 1100px) {
+  .header__top--image img {
+    width: 35%;
+  }
 }
 .header__gnav {
   display: none;

diff --git a/css/style.css b/css/style.css
@@ -488,6 +488,9 @@ button {
   margin-bottom: 3rem;
   margin-top: 3rem;
 }
+.opening__banner {
+  width: 100%;
+}
 .opening__link {
   display: inline-block;
 }

diff --git a/css/style.scss b/css/style.scss
@@ -574,6 +574,10 @@ button {
   margin-bottom: 3rem;
   margin-top: 3rem;
 
+  &__banner {
+    width: 100%;
+  }
+
   &__link {
     display: inline-block;
 

diff --git a/css/header.scss b/css/header.scss
@@ -66,7 +66,10 @@ a {
     margin-right: 1.56rem;
 
     img {
-      width: 100%;
+
+      @include media(md) {
+        width: 35%;
+      }
     }
   }
 }
